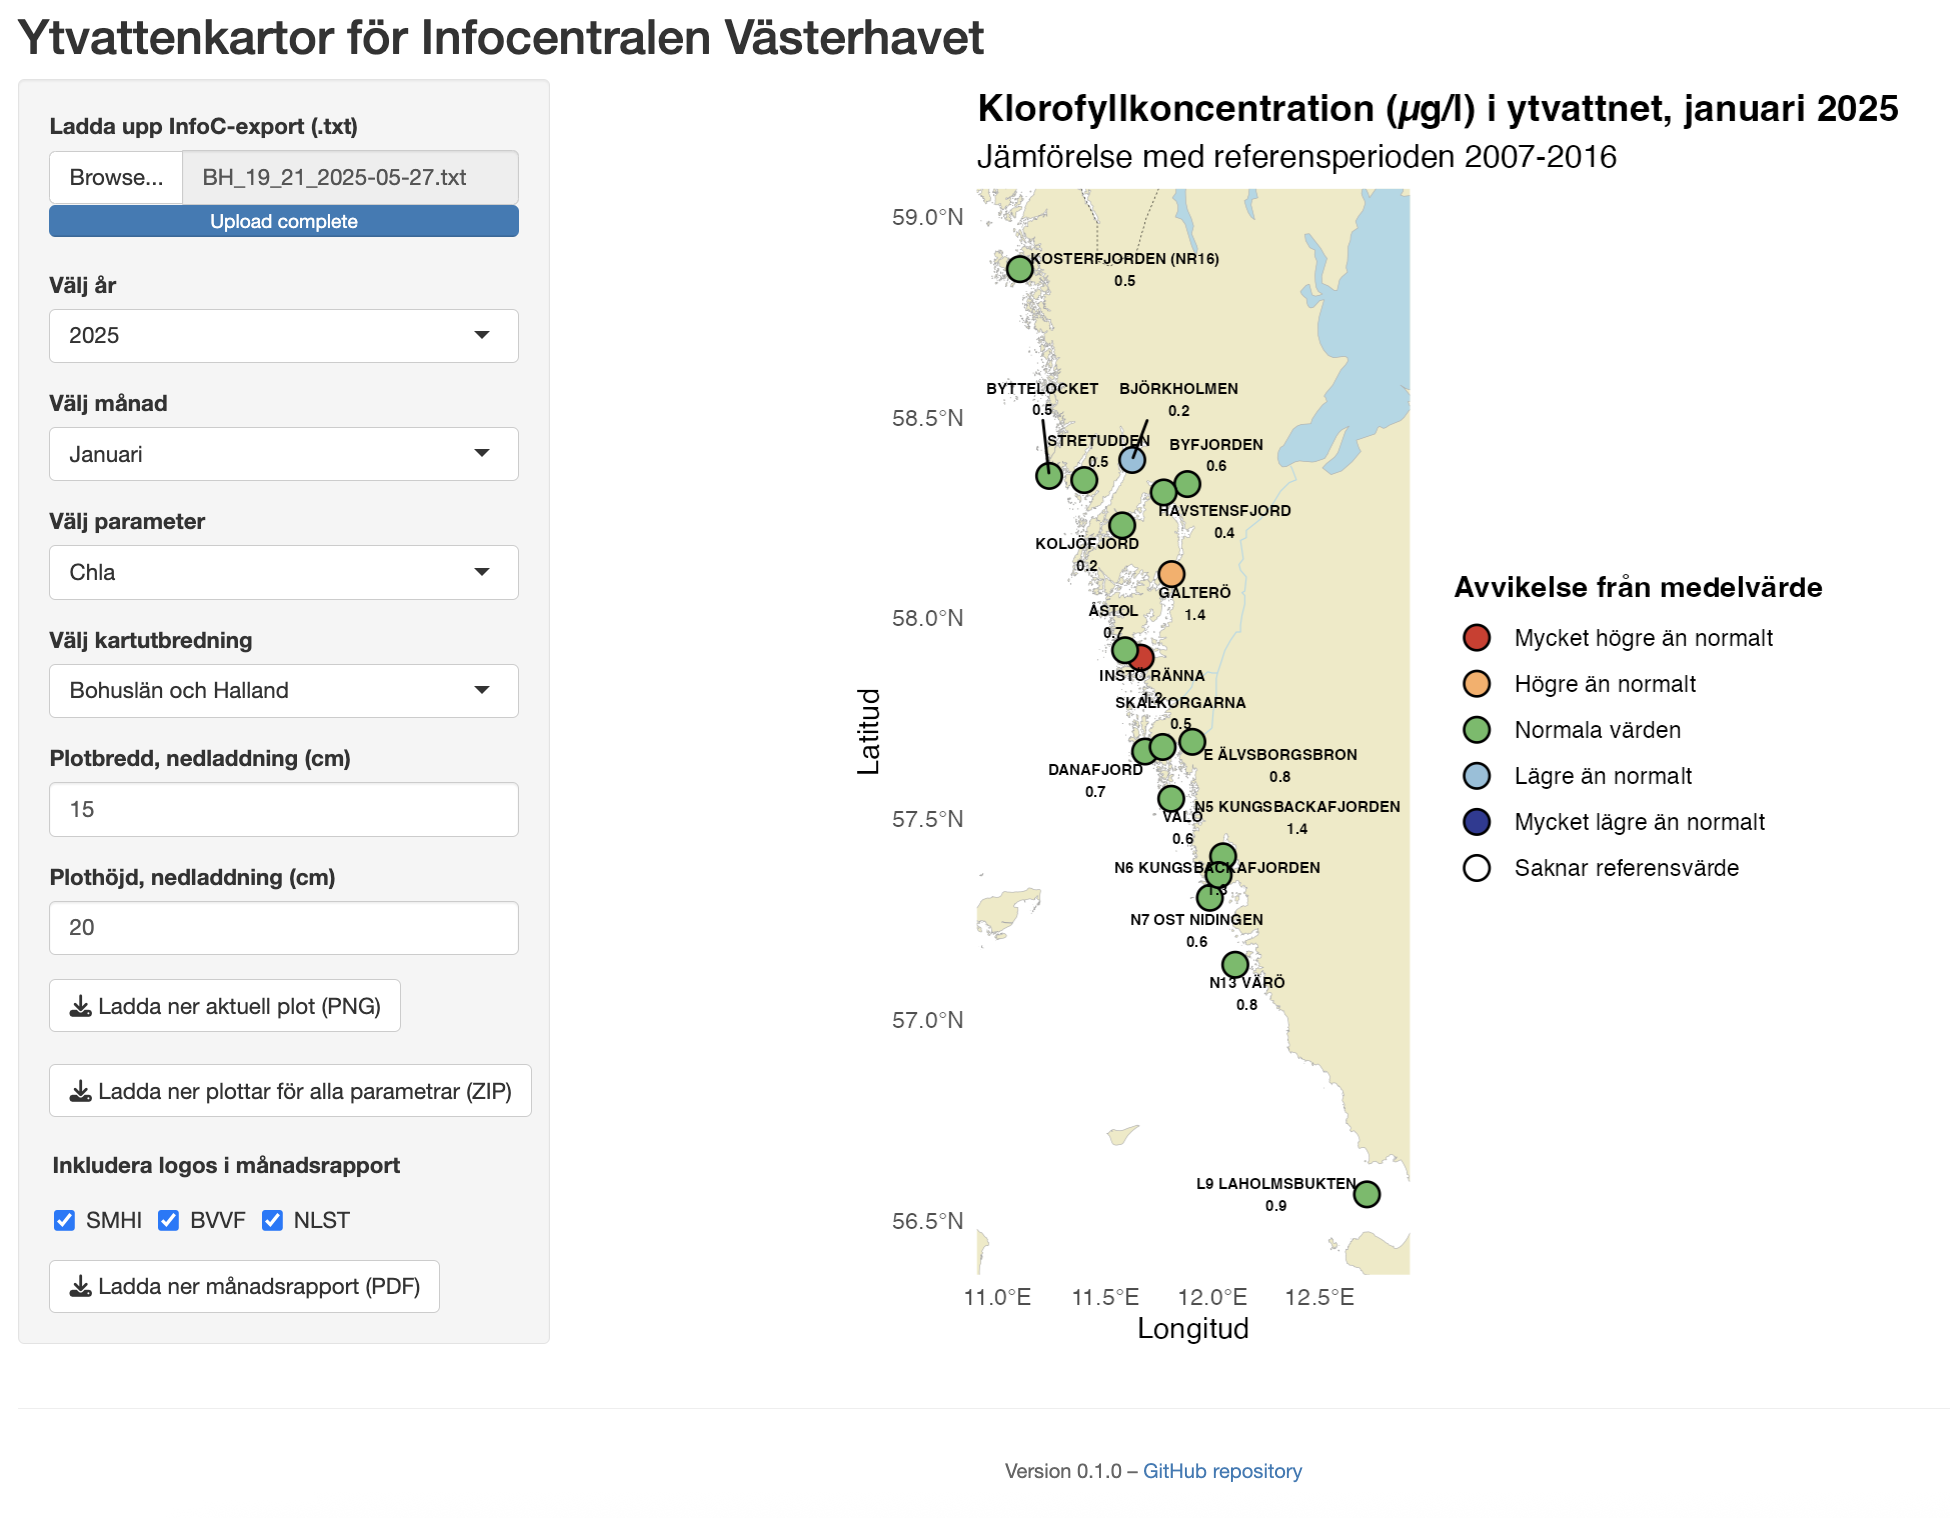
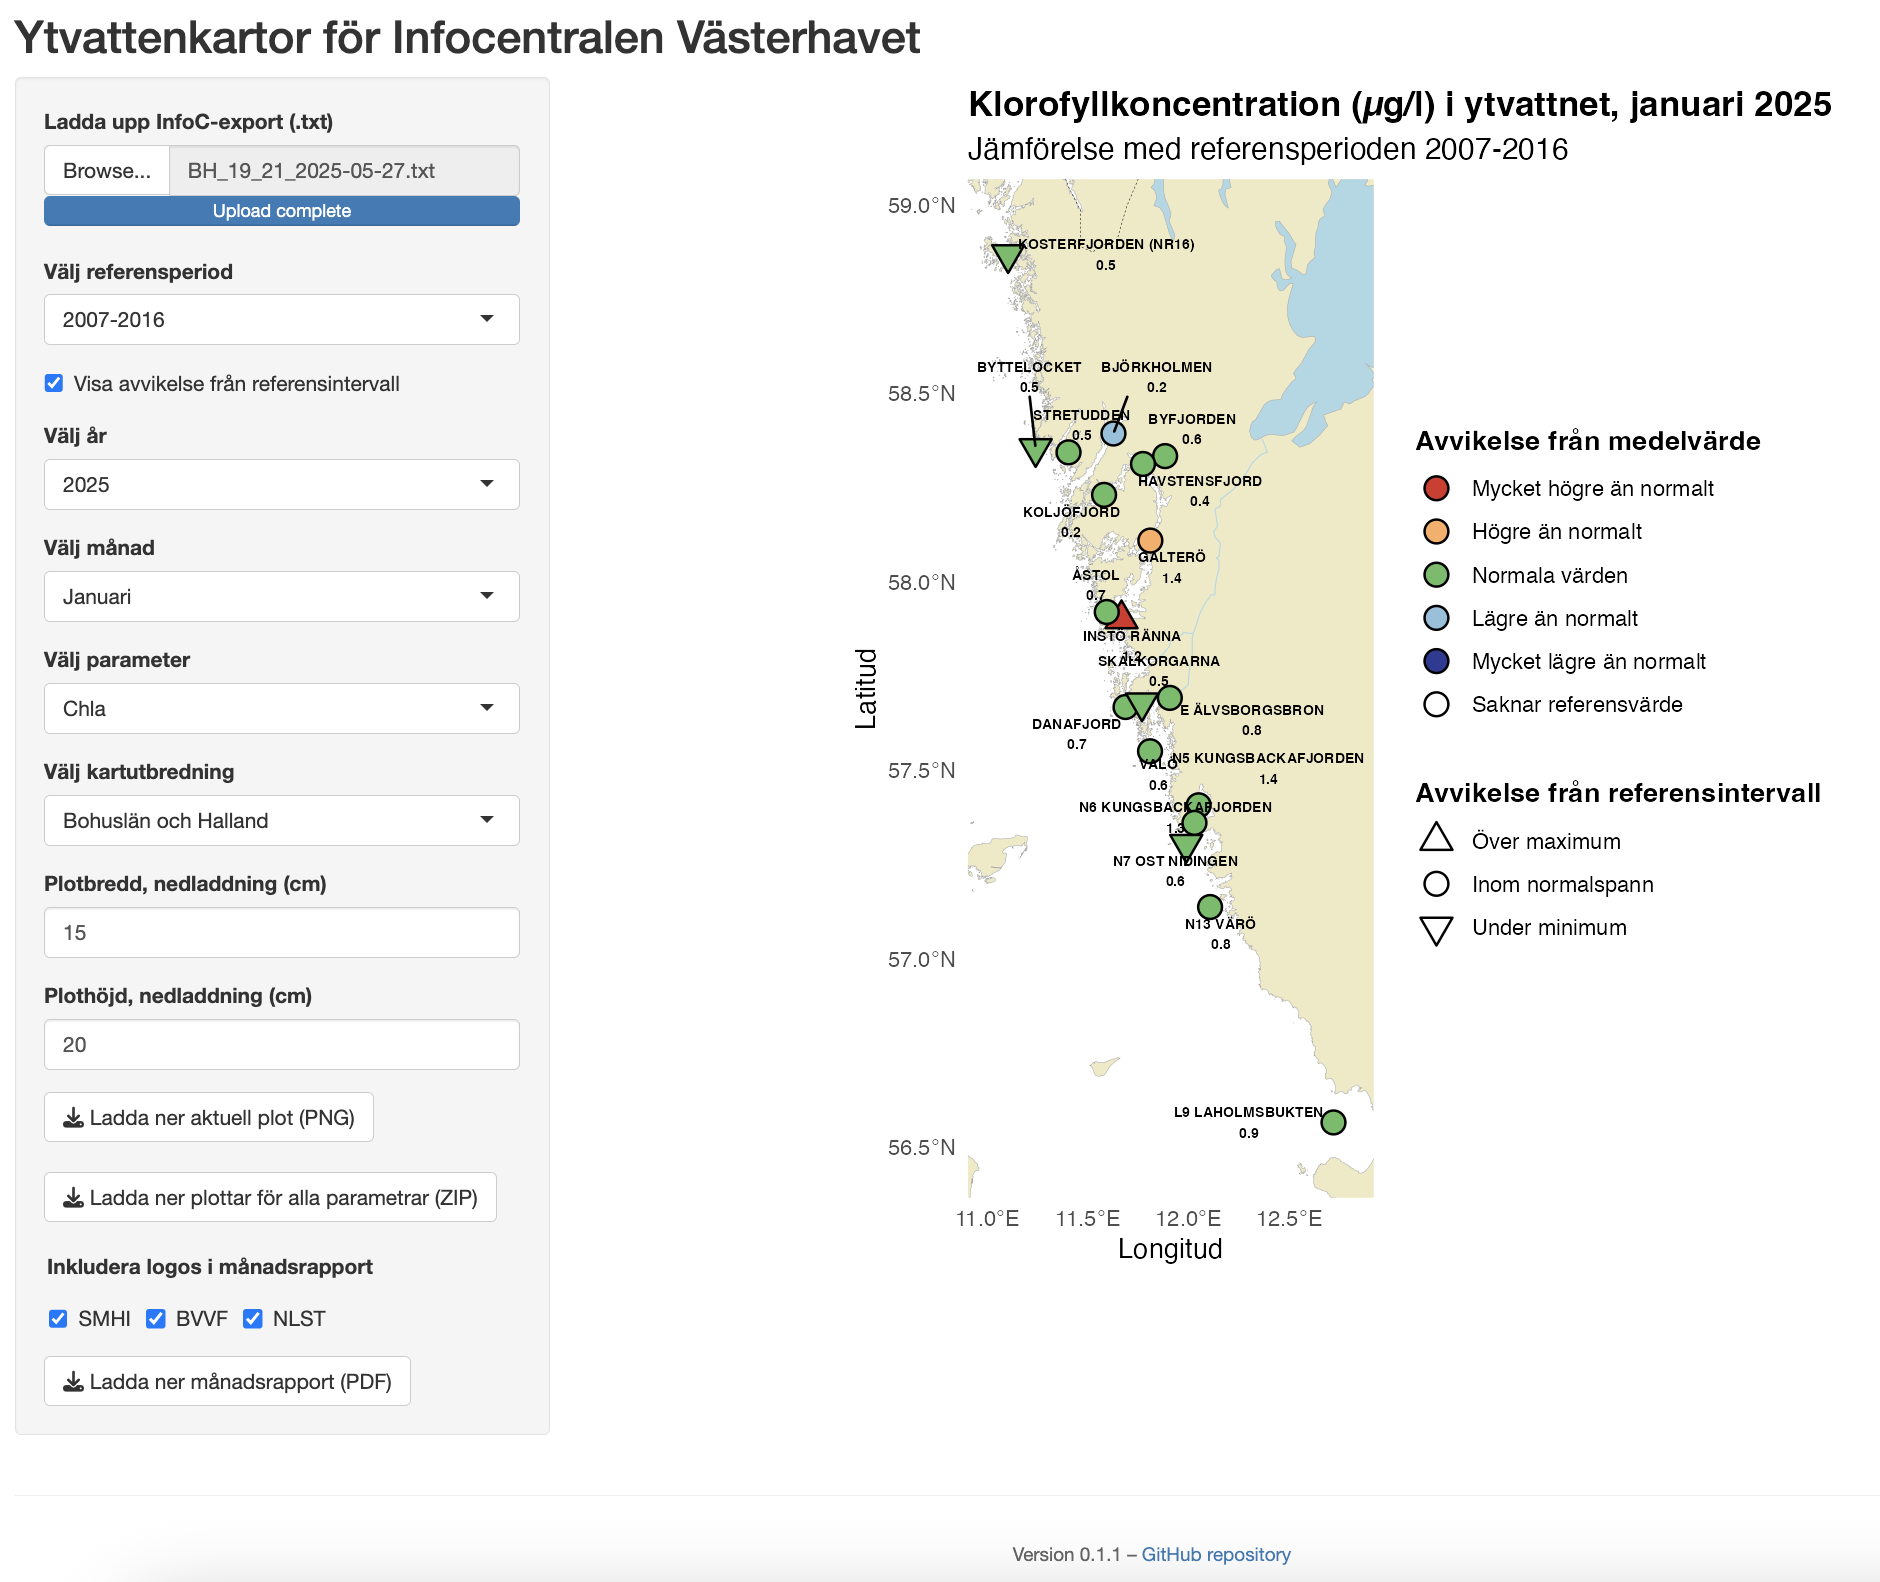
bump version

diff --git a/README.md b/README.md
@@ -6,16 +6,17 @@ This repository contains a [Shiny web application](https://nodc-sweden.shinyapps
 
 - Upload `.txt` files from a InfoC export from **SHARKtoolbox**
 - Dynamic selection of:
+  - Reference dataset
   - Year and month
   - Water quality parameters (e.g., Temperature, Salinity, Oxygen, etc.)
   - Geographic extent (Bohuslän, Halland, Bohuslän + Halland or dynamic based on available coordinates)
-  - Plot size
+  - Plot size and aesthetics
 - Calculates DIN from NO₂, NO₃, and NH₄
-- Compares measurements to historical statistics
+- Compares measurements to historical statistics (e.g., 2007-2016)
 - Uses values from specific depths:
   - **Surface values (0 m)** are used for all parameters except for **oxygen concentration**
   - **Bottom values** are used for **oxygen concentration** to capture deep-water conditions
-- Categorizes anomalies (e.g., "Högre än normalt", "Lägre än normalt") and extremes
+- Categorizes anomalies (e.g., "Högre än normalt", "Lägre än normalt") and extremes (optionally)
 - Downloads:
   - Current plot as PNG
   - All parameter plots for the current month as a ZIP archive
@@ -49,11 +50,11 @@ Or click **Run App** in RStudio.
 .
 ├── R/
 │   ├── helper.R             # Contains helper functions like create_plot(), convert_dmm_to_dd() etc.
-│   └── load_data.R          # Loads station statistics from MATLAB .mat file, defines parameter metadata, anomaly categories, colors, and month names
+│   └── load_data.R          # Loads station reference statistics from file, defines parameter metadata, anomaly categories, colors, and month names
 ├── assets/                  # Contains logos and images used by the app
-├── data/                    # Contains data, such as map layers and historical data
-│   └── stat_stations.mat    # MATLAB file with historical station statistics
-├── scripts/                 # Misc scripts not directly used by app
+├── data/                    # Contains data, such as map layers and reference data
+├── scripts/                 # Misc scripts not directly used by app, but used for pre-processing data (e.g. updating reference datasets)
+│   └── update_stats.R       # Script to update station reference statistics using `SHARK4R`
 ├── app.R                    # Main Shiny app file
 └── README.md
 ```
